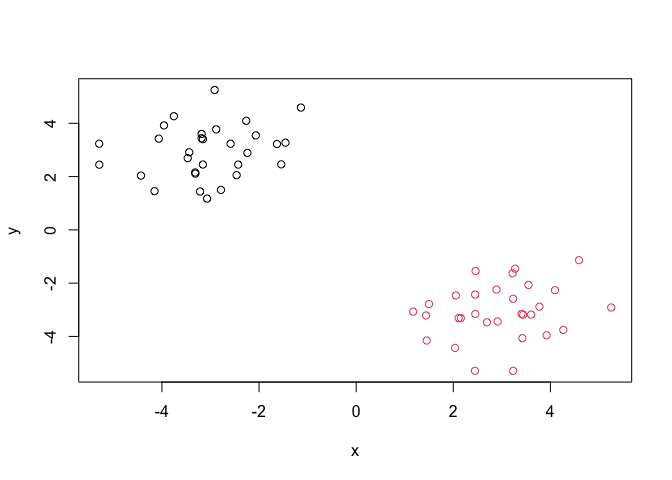
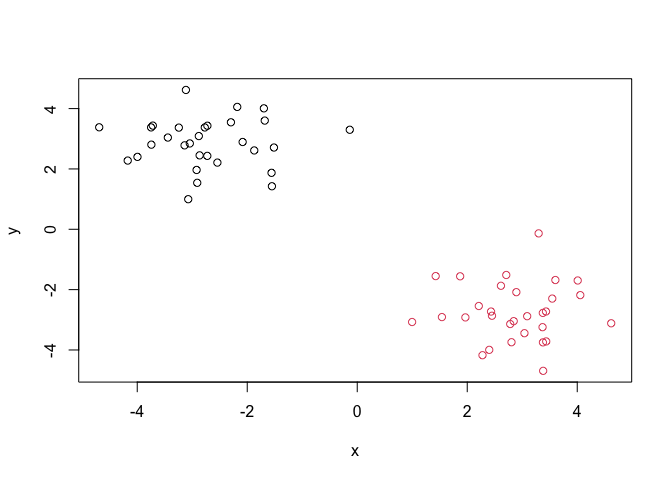
add c7

diff --git a/class07/class07.md b/class07/class07.md
@@ -36,16 +36,16 @@ km
 
     Cluster means:
               x         y
-    1 -3.061048  2.949997
-    2  2.949997 -3.061048
+    1  2.861399 -2.734753
+    2 -2.734753  2.861399
 
     Clustering vector:
-     [1] 1 1 1 1 1 1 1 1 1 1 1 1 1 1 1 1 1 1 1 1 1 1 1 1 1 1 1 1 1 1 2 2 2 2 2 2 2 2
-    [39] 2 2 2 2 2 2 2 2 2 2 2 2 2 2 2 2 2 2 2 2 2 2
+     [1] 2 2 2 2 2 2 2 2 2 2 2 2 2 2 2 2 2 2 2 2 2 2 2 2 2 2 2 2 2 2 1 1 1 1 1 1 1 1
+    [39] 1 1 1 1 1 1 1 1 1 1 1 1 1 1 1 1 1 1 1 1 1 1
 
     Within cluster sum of squares by cluster:
-    [1] 58.10646 58.10646
-     (between_SS / total_SS =  90.3 %)
+    [1] 46.11617 46.11617
+     (between_SS / total_SS =  91.1 %)
 
     Available components:
 
@@ -78,8 +78,8 @@ km$size
 km$cluster
 ```
 
-     [1] 1 1 1 1 1 1 1 1 1 1 1 1 1 1 1 1 1 1 1 1 1 1 1 1 1 1 1 1 1 1 2 2 2 2 2 2 2 2
-    [39] 2 2 2 2 2 2 2 2 2 2 2 2 2 2 2 2 2 2 2 2 2 2
+     [1] 2 2 2 2 2 2 2 2 2 2 2 2 2 2 2 2 2 2 2 2 2 2 2 2 2 2 2 2 2 2 1 1 1 1 1 1 1 1
+    [39] 1 1 1 1 1 1 1 1 1 1 1 1 1 1 1 1 1 1 1 1 1 1
 
 > Q. What are centers/mean values of each cluster?
 
@@ -88,8 +88,8 @@ km$centers
 ```
 
               x         y
-    1 -3.061048  2.949997
-    2  2.949997 -3.061048
+    1  2.861399 -2.734753
+    2 -2.734753  2.861399
 
 > Q. Make a plot of your data showing your clustering results
 > (groupings/clusters and cluster centers).

diff --git a/README.md b/README.md
@@ -1,3 +1,19 @@
-# bimm143
-Bioinformatics class
-This repo is for my UCSD bioinformatics class. 
+# McKenzie's portfolio
+
+My classwork for [BiMM143 Spring 2024](https://bioboot.github.io/bimm143_S24/) at UC San Diego.
+
+- **Class 5** [Data visualization with ggplot](https://github.com/bioboot/bimm143/blob/main/class05/class05.pdf)
+
+- **Class 6** [Data visulaization with ggplot]()
+
+- **Class 7** [Data visulaization with ggplot]()
+
+- **Class 8** [Data visulaization with ggplot]()
+
+- **Class 9** [Data visulaization with ggplot]()
+
+- **Class 10** [Data visulaization with ggplot]()
+
+- **Class 11** [Data visulaization with ggplot]()
+
+- **Class 12** [Data visulaization with ggplot]()
